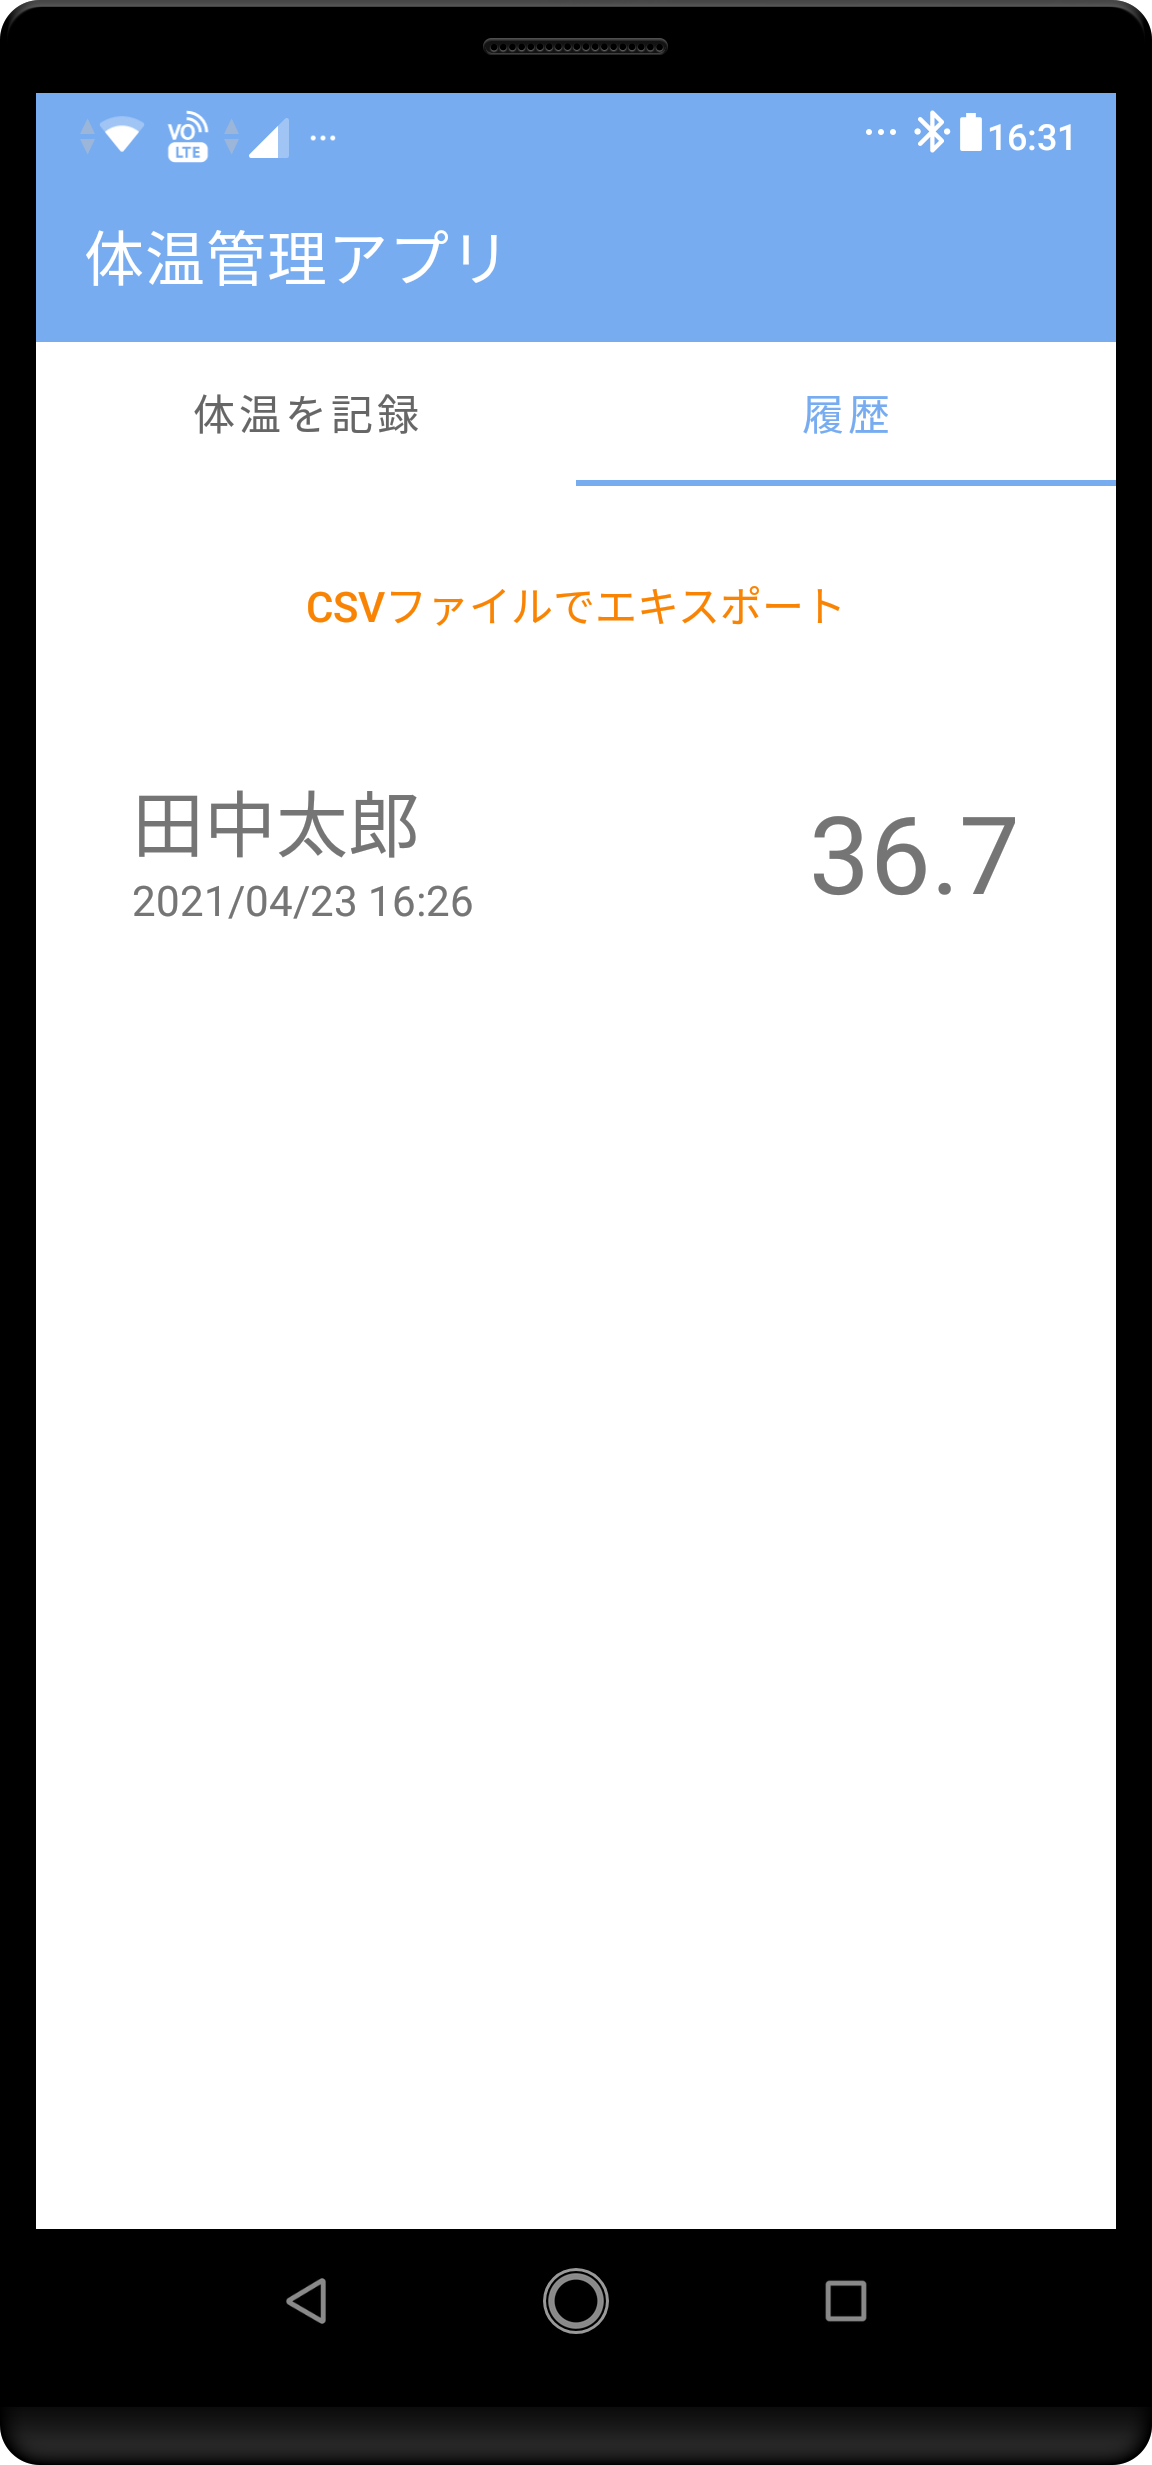
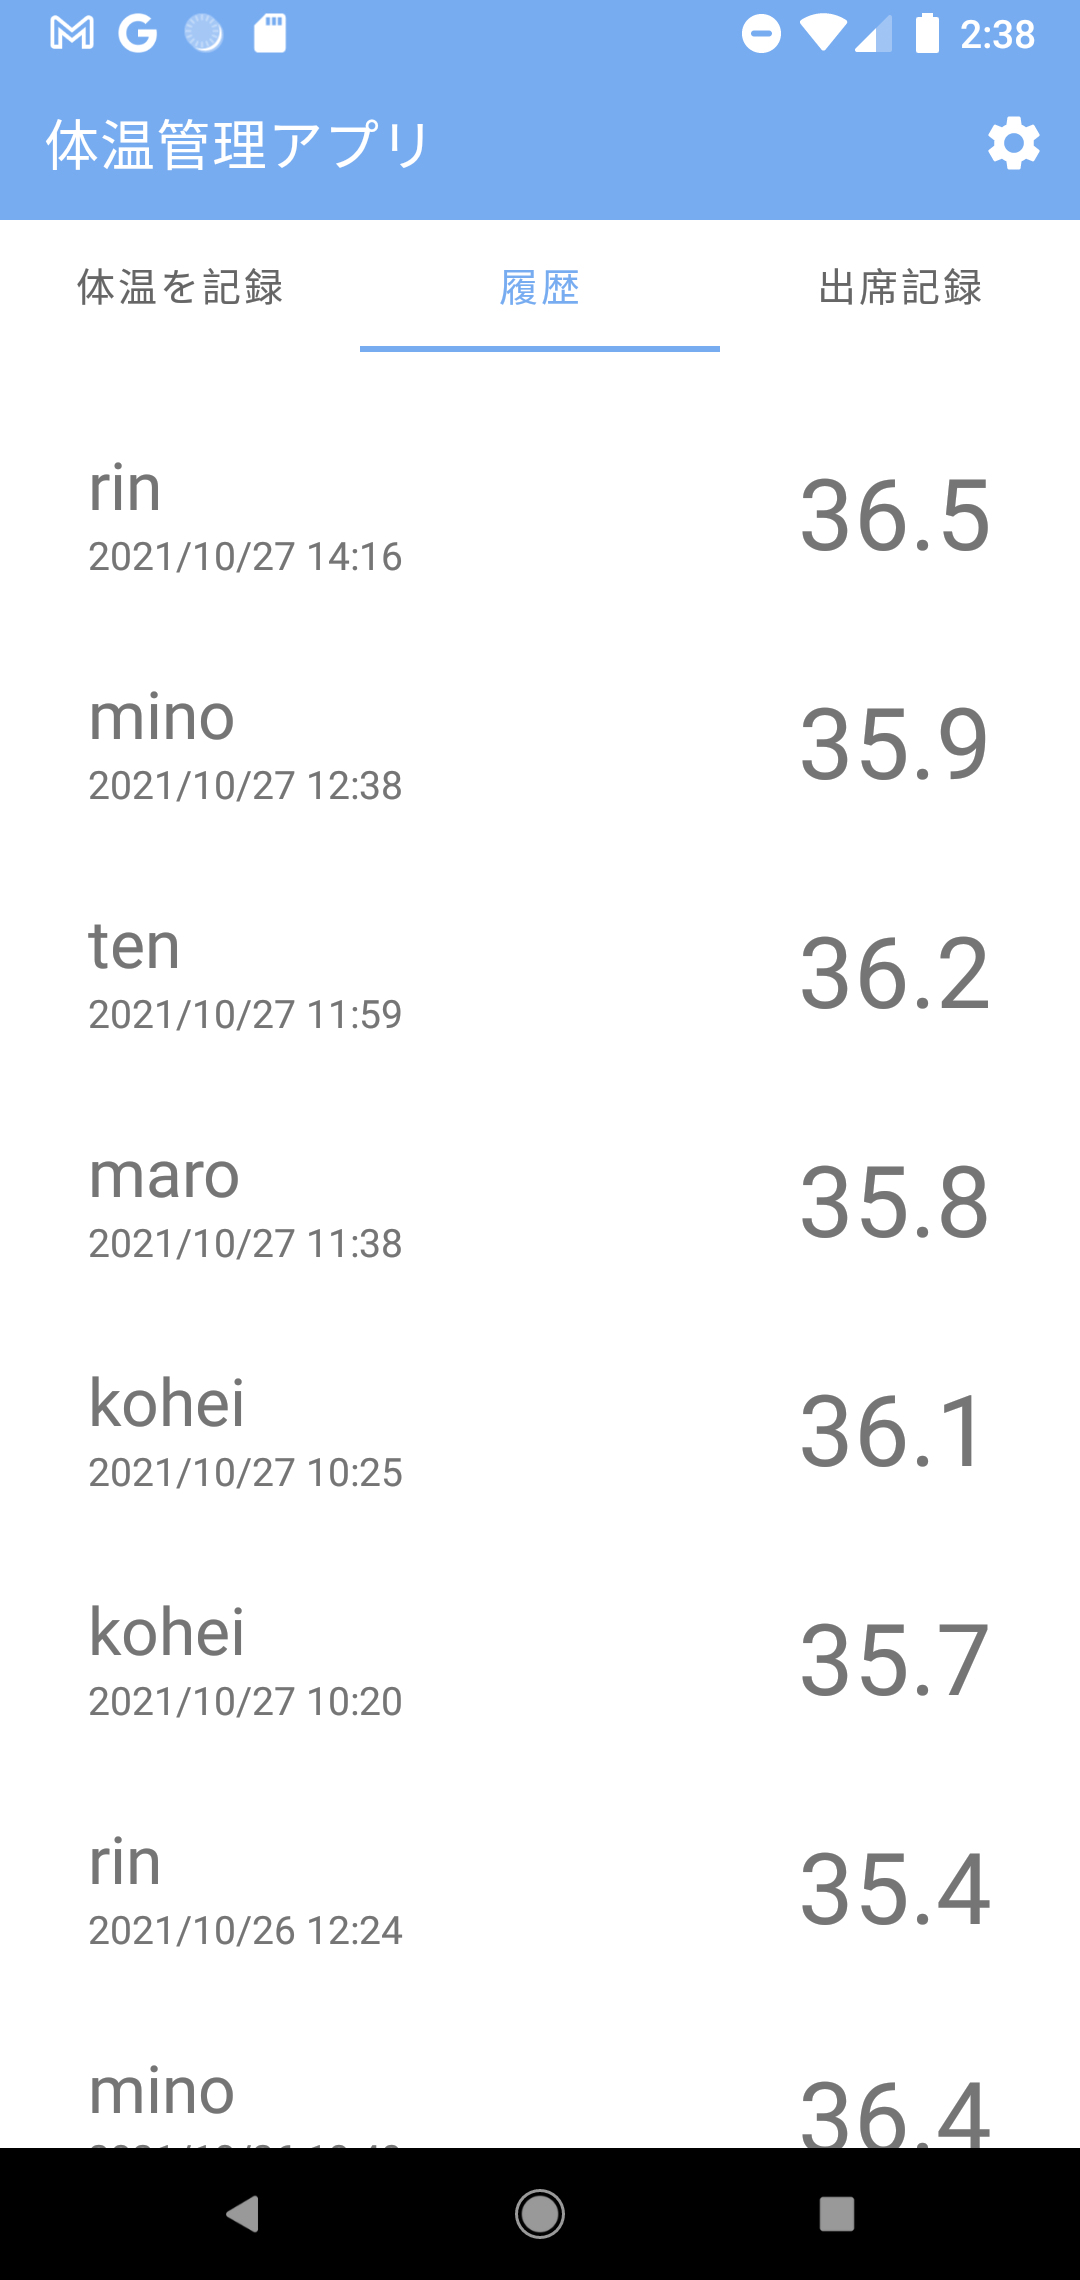
doc: updated README

diff --git a/README.md b/README.md
@@ -8,38 +8,25 @@
 - 付近にいるユーザーをBluetoothにより検出することで、入力者の指定をスムーズにする。
 
 <img src="./docs/screenshot_select_user.png" height="300px">
-<img src="./docs/screenshot_save_body_temperature.png" height="300px">
+<img src="./docs/screenshot_save_body_temperature.jpg" height="300px">
 
 ### 記録を管理
 
-- 記録した体温をCSV形式で出力
+- 体温をSpreadSheetに自動で記録
+
+<img src="./docs/screenshot_spreadsheet_temperature.png">
+
+- アプリから確認することも可能
 
 <img src="./docs/screenshot_body_temperature_history.png" height="300px">
-<img src="./docs/screenshot_share.png" height="300px">
 
 ## 設計
 
 ![設計](./docs/architecture.png)
 
-## CSVからユーザーを追加
-
-以下の形式に従う`CSV`ファイルからユーザーを追加できます。
-
-```csv
-ユーザー名, BluetoothのMACアドレス, 学位
-```
-
-```csv
-学位=B4|M1|M2|Prof|Grad
-```
-
-## ファイル
+## 必要なファイル
 
 |ファイルの説明|ファイル名|ファイルパス|
 |---|---|---|
 |サービスアカウントの秘密鍵|service_account.json|app/main/assets/service_account.json|
 |Firebaseの秘密鍵|google-services.json|app/main/google-services.json|
-
-### サービスアカウント
-
-サービスアカウントの秘密鍵
